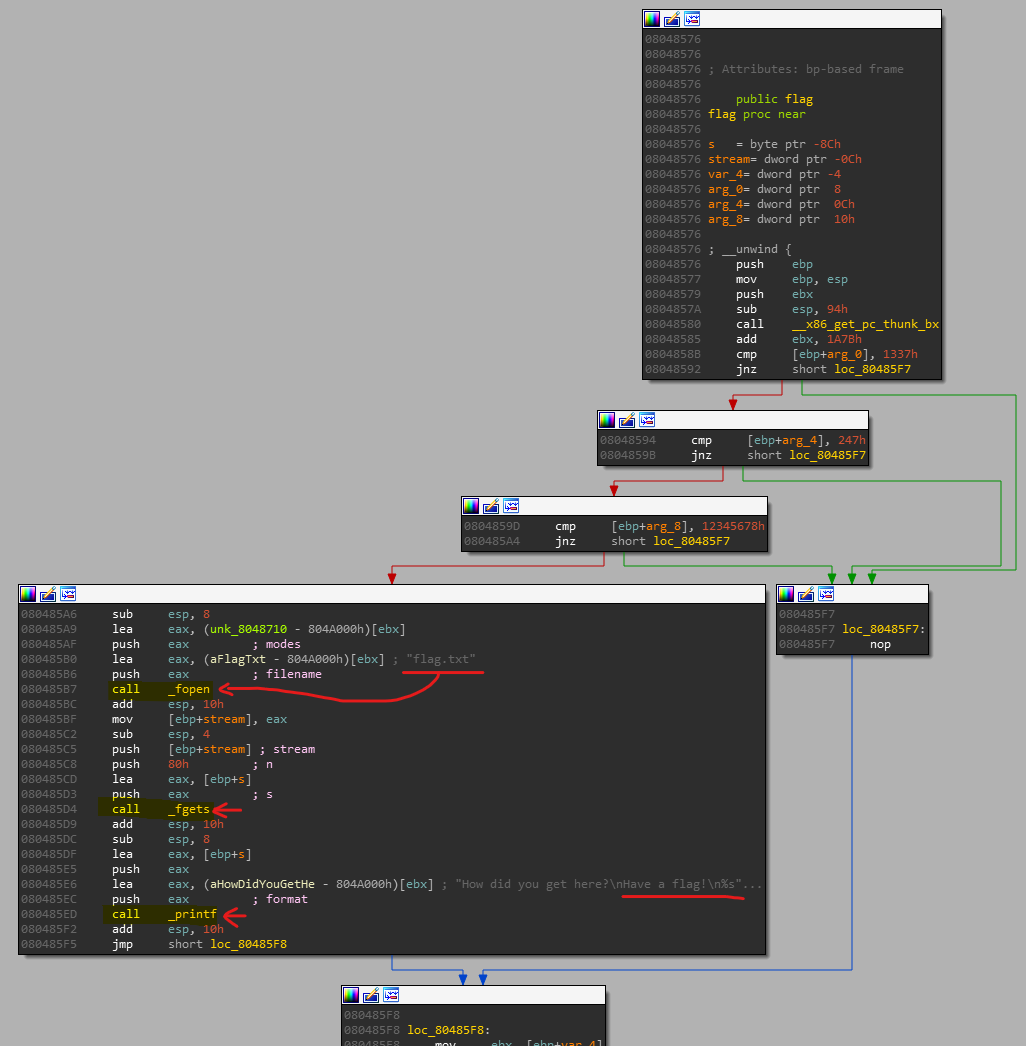
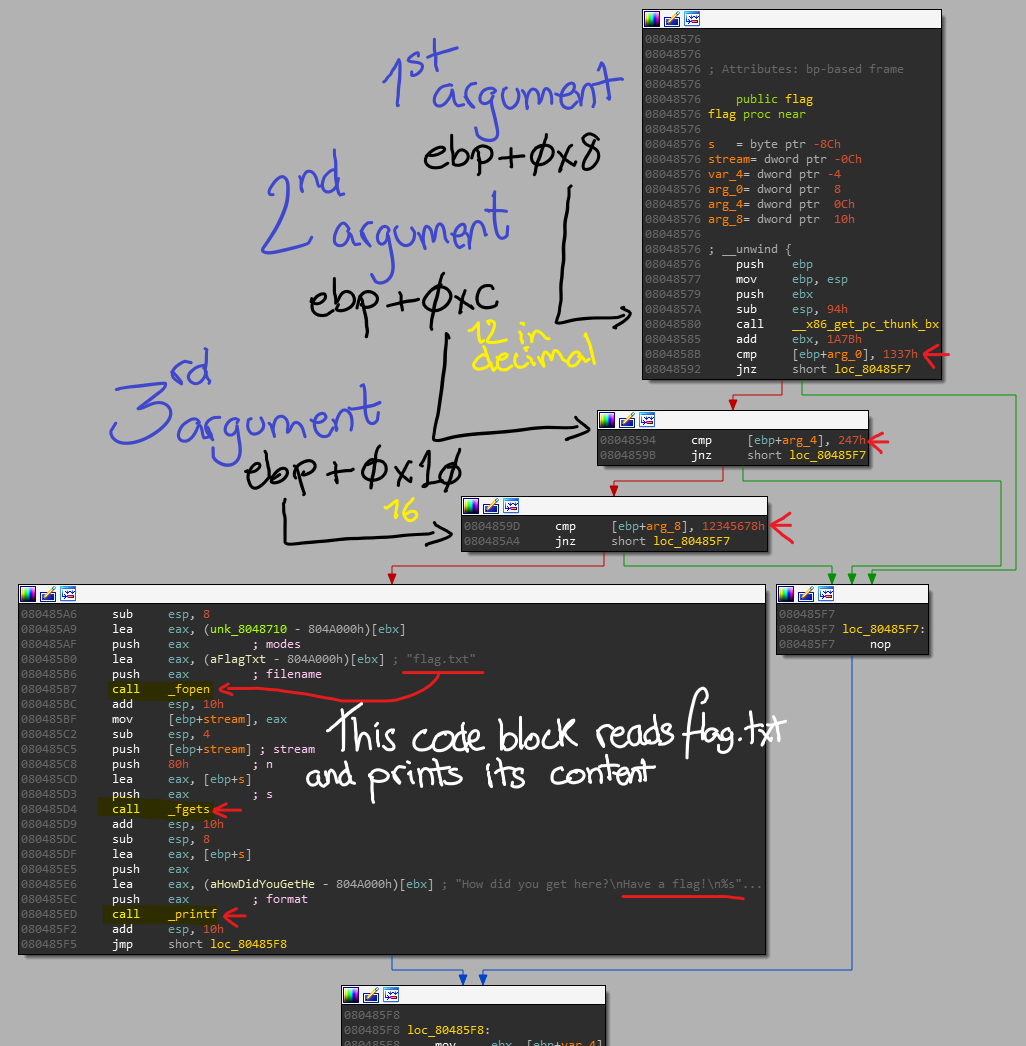
Documenting stack's arguments position

diff --git a/_247ctf/hidden-flag-function-parameters.md b/_247ctf/hidden-flag-function-parameters.md
@@ -44,14 +44,35 @@ Before inspecting them, let us take a look at `main`. It prints the strings and 
 	<img src="/images/247ctf/pwnable/hidden_flag_function_parameters/main.png">
 </p>
 
+Now, when taking a look at `chall` we can easily spot the vulnerability. The function performs a `scanf` read at address <yellow>ebp-0x88</yellow>. Scanf is a well-known [vulnerable](https://www.google.com/search?q=scanf+vulnerability&oq=scanf+vulnerability&aqs=chrome..69i57.2484j0j1&sourceid=chrome&ie=UTF-8) function since it performs no bounds checking. That is, we can input vast amounts of bytes.
+
+The attack is now clear, we can overwrite `chall`'s thus **<red>hijacking the execution flow</red>**.
 
 <p align="center">
 	<img src="/images/247ctf/pwnable/hidden_flag_function_parameters/chall_function.png">
 </p>
 
+Now the question is: where do we want to redirect the execution flow? The answer is: to `flag` function. Inspecting `flag` one can see there are several consecutive conditional jumps. If the correct conditions are met, there is a final block that actually opens a file called *<red>flag.txt</red>* and prints its content. If successfully exploited on the remote server, that would print the flag.
+
+In order to reach (execute) the code block that prints the flag, we must meet the following requirements from `flag`'s perspective:
+```
+ebp + 0x8 = 0x1337
+ebp + 0xc = 0x247
+ebp + 0x10 = 0x12345678
+```
+
 <p align="center">
 	<img src="/images/247ctf/pwnable/hidden_flag_function_parameters/flag_function.png">
 </p>
+
+In other words, when we manage to hijack the execution flow and reach `flag` function, its parameters/arguments must be the aforementioned ones. Please bear in mind we are exploiting a binary compiled for a <yellow>32-bit architecture</yellow>, hence the use of the stack to pass parameters to functions. Remember the [calling convention](https://en.wikipedia.org/wiki/X86_calling_conventions#List_of_x86_calling_conventions) is different for 32-bit and 64-bit. In 32-bit, arguments are always referenced as relative addresses to `ebp` register, since `ebp` is the [base pointer](https://stackoverflow.com/questions/21718397/what-are-the-esp-and-the-ebp-registers) (also known as frame pointer) of that particular stack frame. 
+
+In other words, from `flag`'s point of view, it expects the stack to be aligned like the following image where 1st argument corresponds to 0x1337, 2nd argument to 0x247 and 3rd argument to 0x12345678. Notice how the return address of the function is stored at ebp+0x4 and right above it, at ebp+0x8, lives the very first parameter.
+
+<p align="center">
+	<img src="/images/247ctf/pwnable/hidden_flag_function_parameters/arguments_position.png">
+</p>
+
 
 
 I hope you enjoyed my write-up. I'd be delighted to know whether it helped you progress and learn new things. Do not hesitate to reach me out via [Twitter](https://twitter.com/Razvieu). I'm always eager to learn new things and help others out :)
